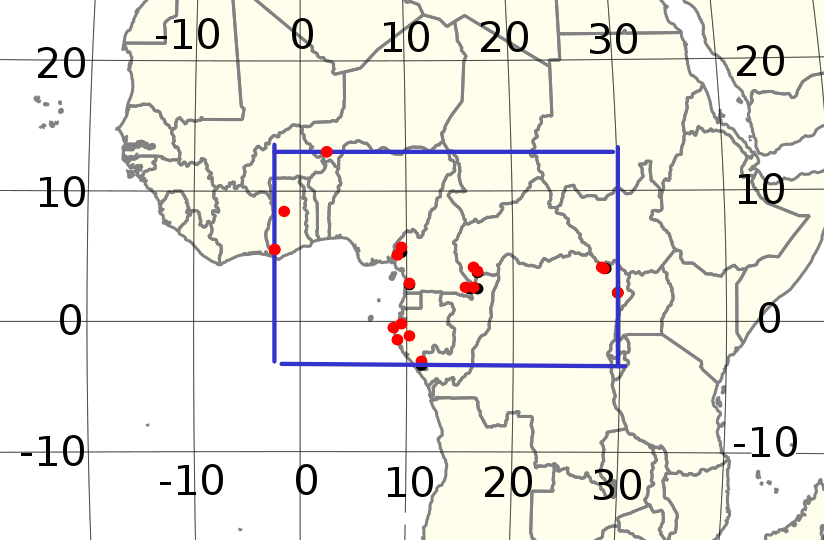
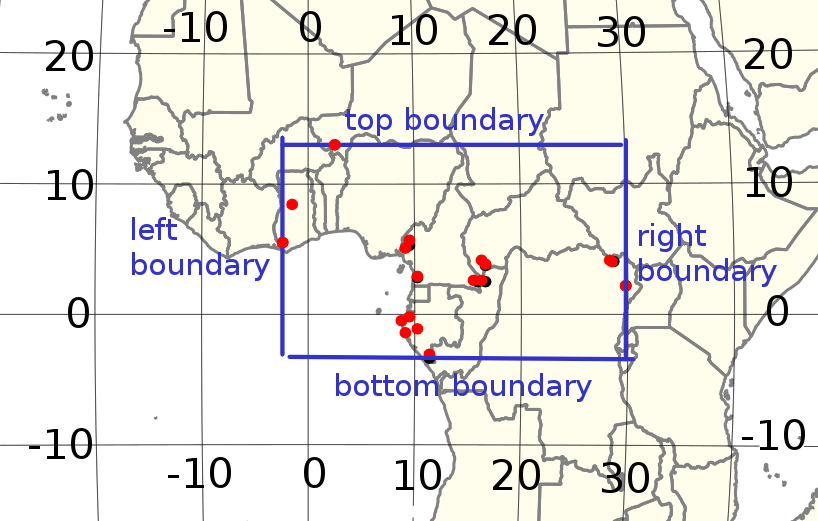
edit

Changed region(s): [[0.0, 0.0, 1.0, 1.0], [0.978, 0.0, 1.0, 0.0614]]

diff --git a/md/md/sdm.md b/md/md/sdm.md
@@ -25,7 +25,7 @@ We will use inequalities to describe where this species lives.
 <img src="/static/teaching_assets/md/images/BoundingBox.png"><br>
 
 <p>
-**Step 2**: Using a map, we find the $x$ coordinates (longitude) of our vertical boundary lines and the $y$ coordinates (latitude) of our horizontal boundary lines.
+**Step 2**: Using a map, we find the $x$ coordinates (longitude) of our left and right boundaries and the $y$ coordinates (latitude) of our top and bottom boundaries.
 </p>
 <img src="/static/teaching_assets/md/images/LabeledBoundingBox.png"><br>
 
